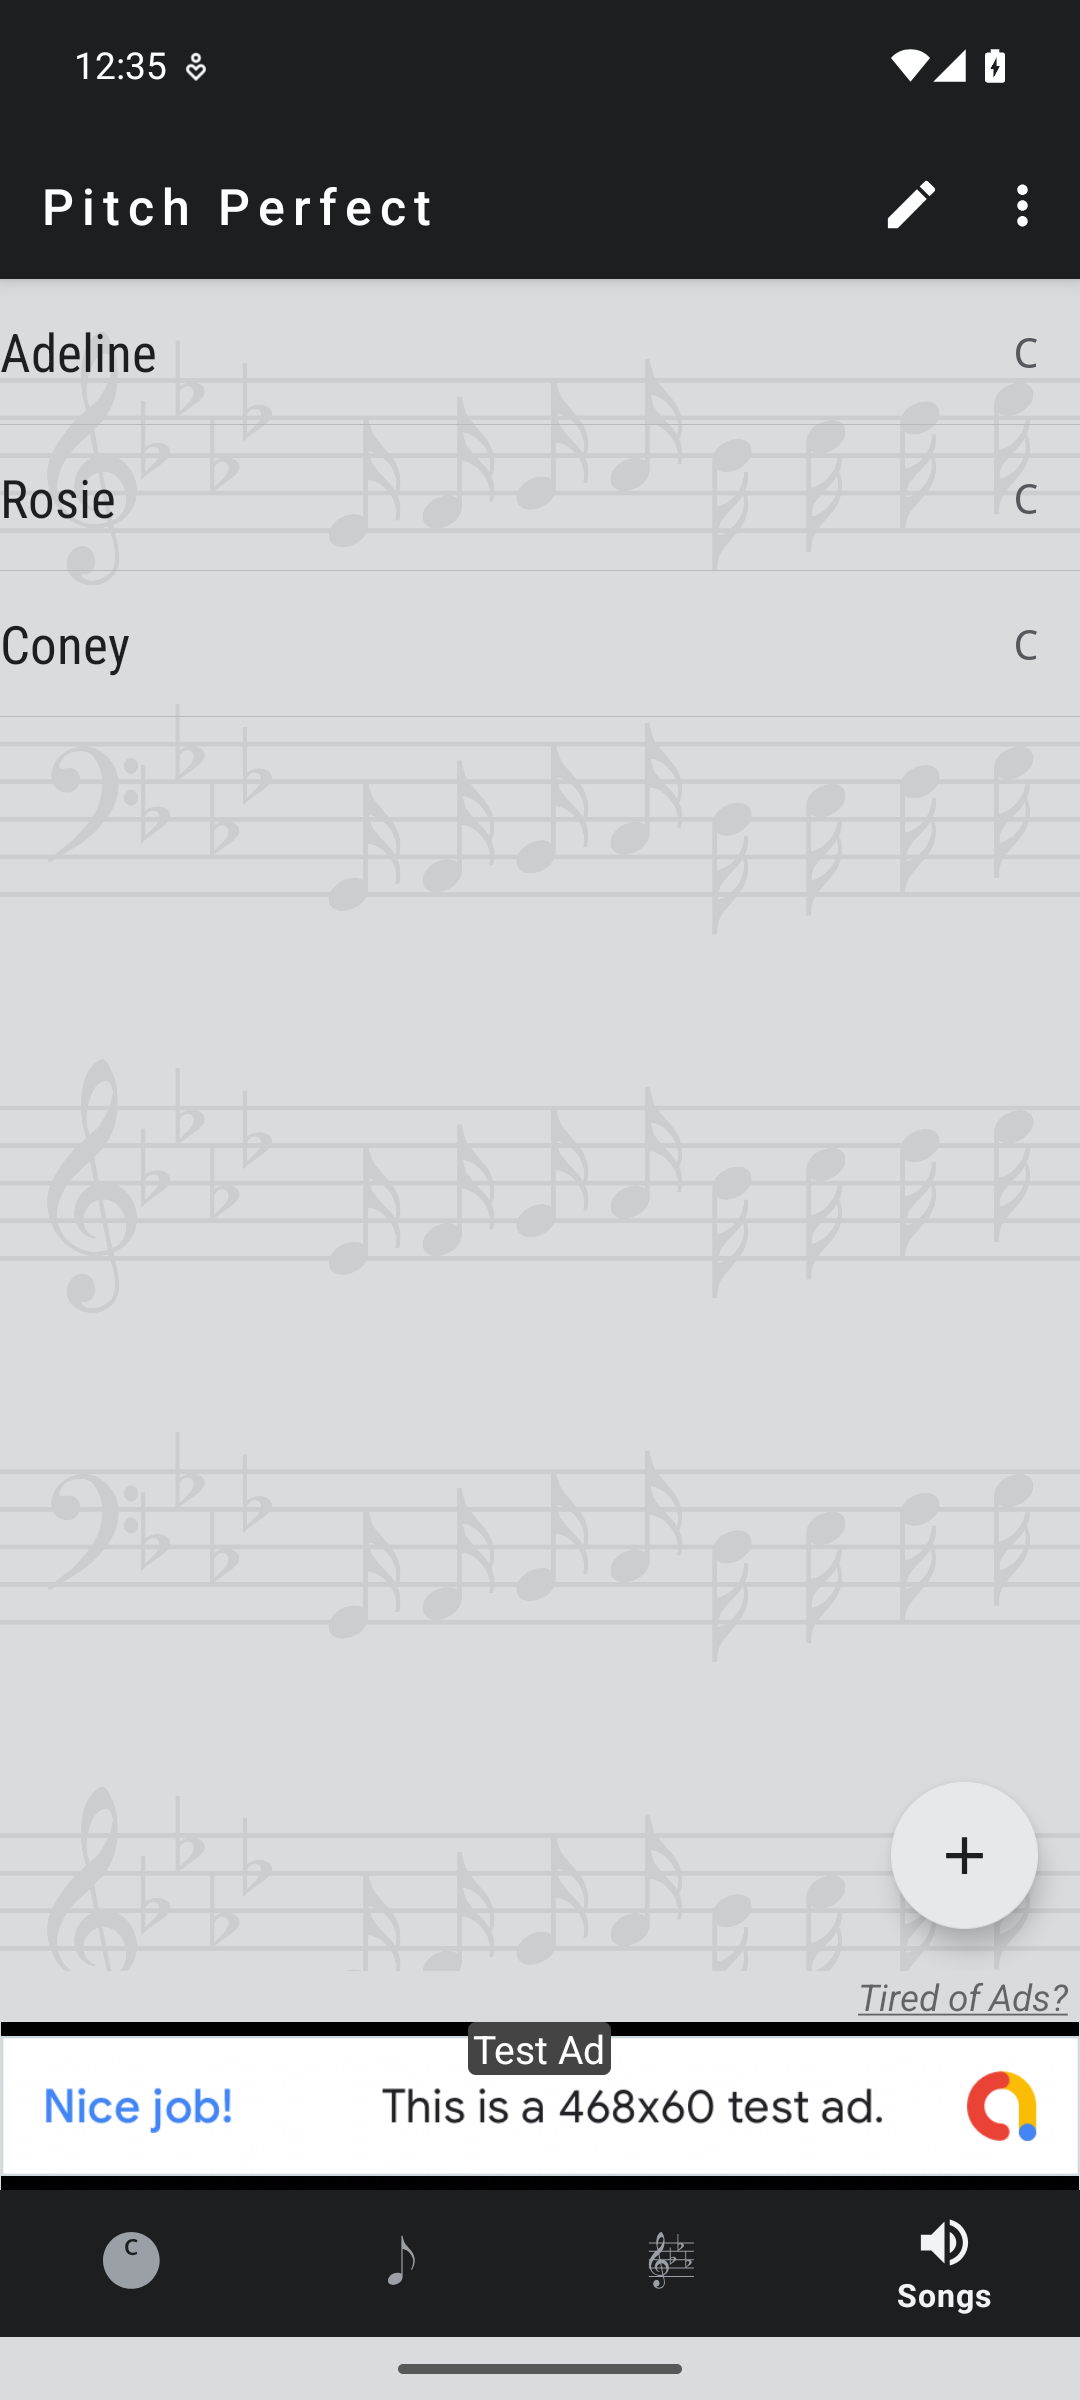
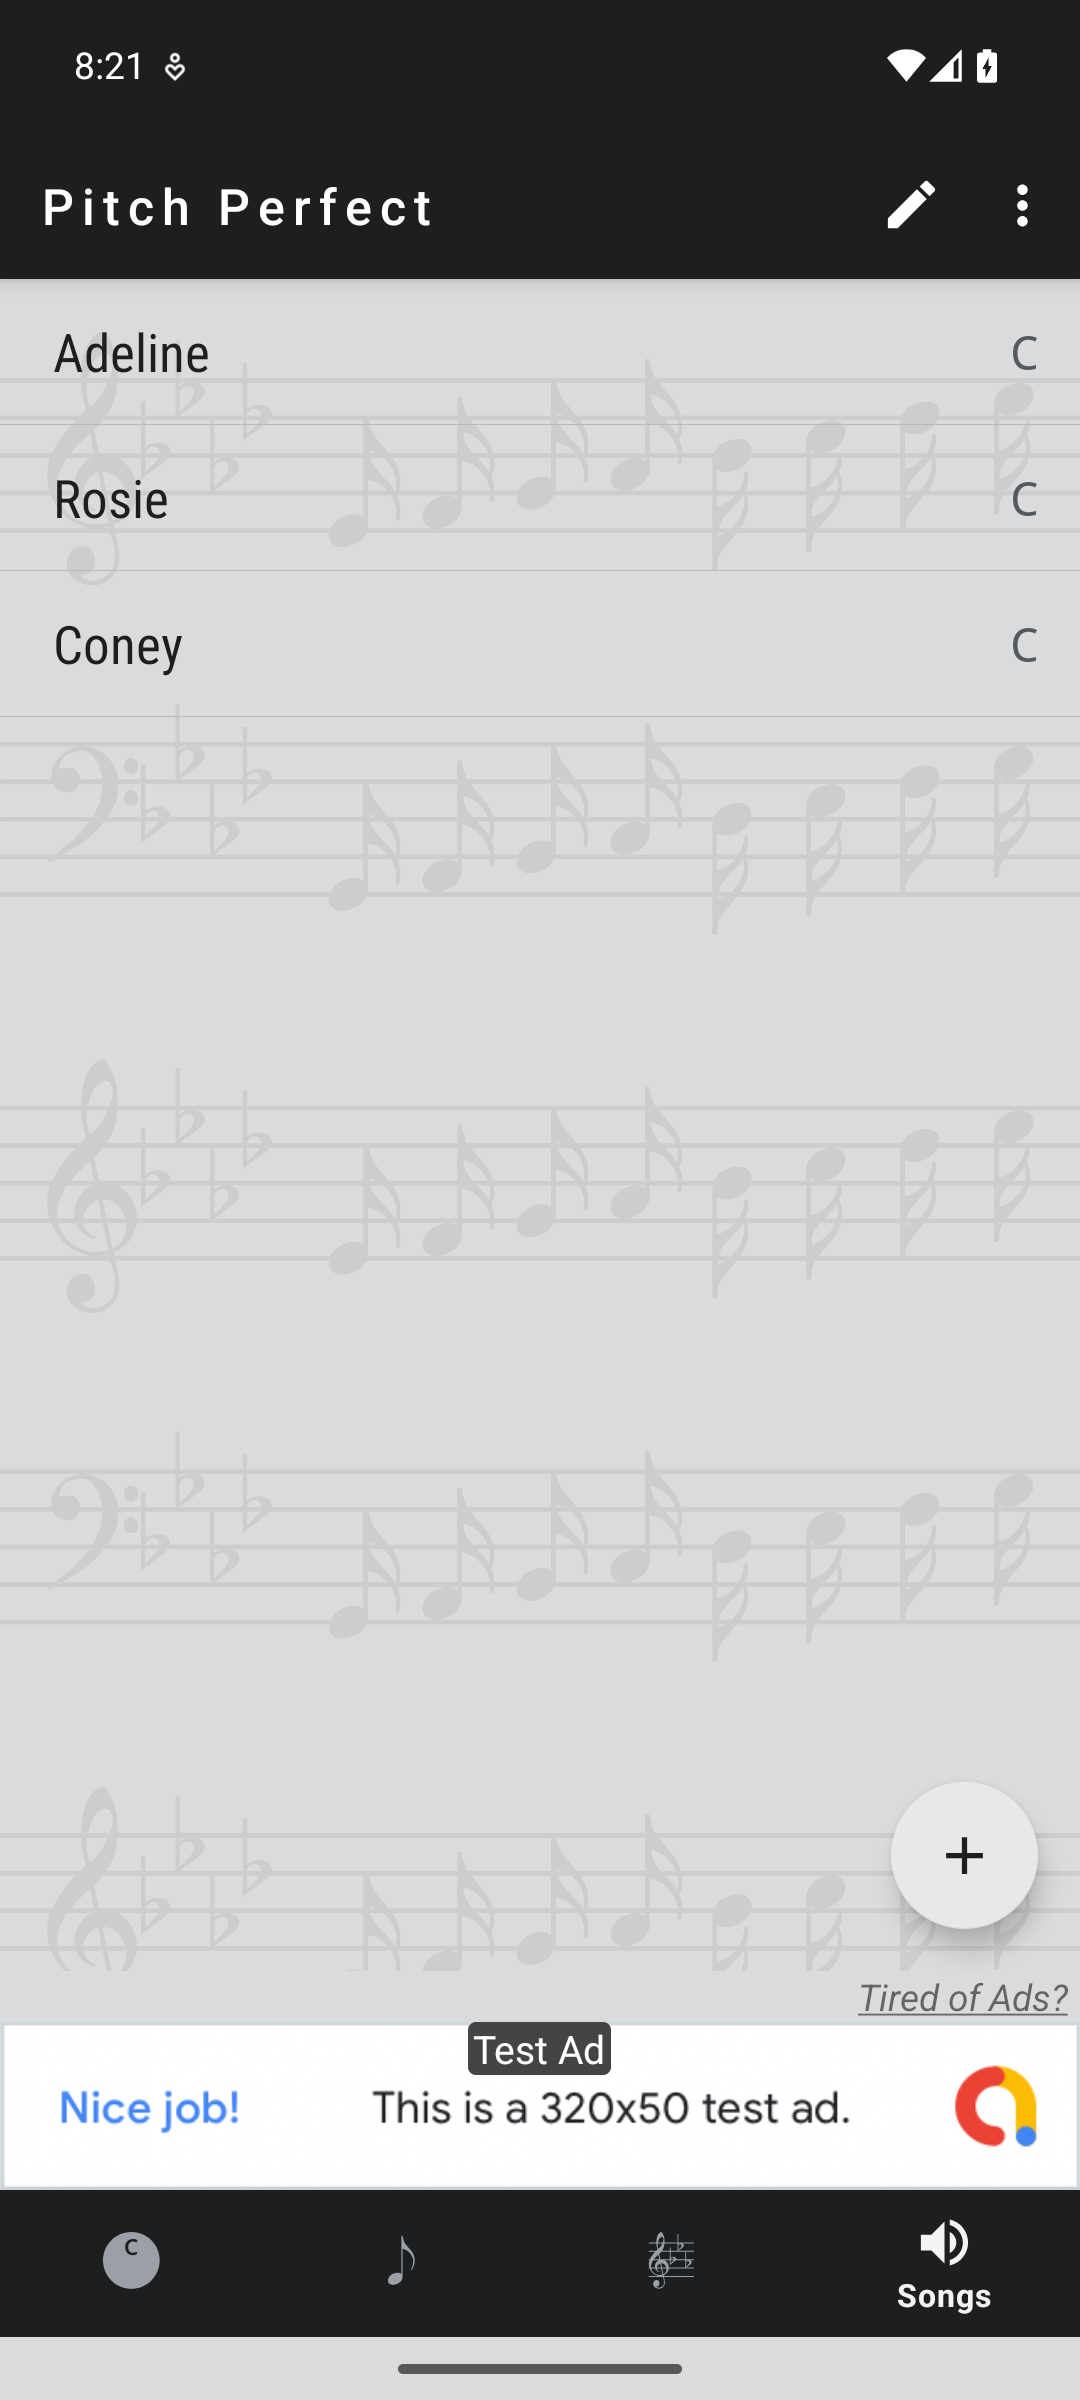
PitchPerfect: refine song rows and instrument caption

diff --git a/iOS/pitchperfect/pitchperfect/DPPitchInstrumentView.swift b/iOS/pitchperfect/pitchperfect/DPPitchInstrumentView.swift
@@ -205,7 +205,7 @@ private class InstrumentAccessibilityElement: UIAccessibilityElement {
 
         // Nameplate.
         let nameplate = NSAttributedString(
-            string: "CHROMATIC PITCH REFERENCE",
+            string: "DIGITAL PITCH PIPE",
             attributes: [
                 .font: condensedFont(size: ringRadius * 0.08),
                 .foregroundColor: inkSecondary.withAlphaComponent(0.65),

diff --git a/Android/PitchPerfect/src/main/java/depollsoft/pitchperfect/PitchInstrumentView.kt b/Android/PitchPerfect/src/main/java/depollsoft/pitchperfect/PitchInstrumentView.kt
@@ -429,7 +429,7 @@ class PitchInstrumentView
             textPaint.textSize = ringRadius * 0.085f
             textPaint.letterSpacing = 0.34f
             canvas.drawText(
-                "CHROMATIC PITCH REFERENCE",
+                "DIGITAL PITCH PIPE",
                 faceCx,
                 height - textPaint.textSize * 1.6f,
                 textPaint,

diff --git a/DESIGN.md b/DESIGN.md
@@ -28,7 +28,7 @@ typography:
     fontSize: "20-24sp"
   mono:
     fontFamily: "monospace (Android) / SF Mono system monospaced (iOS)"
-    fontSize: "14-16sp"
+    fontSize: "14-18sp"
     letterSpacing: "0.04em"
   label:
     fontFamily: "monospace"
@@ -107,9 +107,9 @@ Eight grayscale roles, each with a light (bench-aluminum) and dark (blackened-st
 
 ### Hierarchy
 
-- **Display / engraving** (Oswald Medium): action-bar title (19sp, 0.16 letter-spacing, from `TextAppearance.Plate.ActionBarTitle`); cell engravings and center note readout (sized relative to ring geometry); nameplate caption ("CHROMATIC PITCH REFERENCE", 0.34 tracking, uppercase); range-selector labels (uppercase, 0.16 tracking); empty-state text (15sp, 0.12 tracking).
+- **Display / engraving** (Oswald Medium): action-bar title (19sp, 0.16 letter-spacing, from `TextAppearance.Plate.ActionBarTitle`); cell engravings and center note readout (sized relative to ring geometry); nameplate caption ("DIGITAL PITCH PIPE", 0.34 tracking, uppercase); range-selector labels (uppercase, 0.16 tracking); empty-state text (15sp, 0.12 tracking).
 - **Body** (condensed sans, 20–24sp): list-row primary text — note names, song titles, key signatures.
-- **Mono / data** (monospace, 14–16sp, 0.04–0.06 tracking): frequencies ("261.6 Hz"), song keys, anything measured.
+- **Mono / data** (monospace, 14–18sp, 0.04–0.06 tracking): frequencies ("261.6 Hz"), song keys, anything measured.
 - **Label** (monospace, 12sp, 0.14 tracking, secondary ink): section headers (`TextAppearance.Plate.SectionHeader`).
 - **Musical glyphs**: NoteHedz for note heads/accidentals in lists and buttons; MusiQwik for key-signature notation. These are content glyphs, not UI icons.
 
@@ -151,7 +151,7 @@ Machined-part geometry. Circles for cells and indicator dots; near-square 2dp co
 
 ### List Rows
 
-- 56–64dp fully transparent rows over the full-bleed score (lists themselves carry the score pattern on iOS and sit transparent on Android), with 1px hairline dividers. An empty song list uses the same engraved "NO SONGS ON FILE" prompt on both platforms and points directly to Add. Primary text condensed 20–24sp ink; trailing datum mono 14–16sp secondary. Pressed state = the lit treatment (`row_lit.xml`: background flips to `plate-lit`, text to `plate-on-lit` via `pitch_button_text` / `pitch_row_secondary` selectors) — a row lights the way a cell does.
+- 56–64dp fully transparent rows over the full-bleed score (lists themselves carry the score pattern on iOS and sit transparent on Android), with 1px hairline dividers. An empty song list uses the same engraved "NO SONGS ON FILE" prompt on both platforms and points directly to Add. Primary text condensed 20–24sp ink; trailing datum mono 14–18sp secondary. Android song titles keep a 20dp leading inset and song keys use the 18sp ceiling. Pressed state = the lit treatment (`row_lit.xml`: background flips to `plate-lit`, text to `plate-on-lit` via `pitch_button_text` / `pitch_row_secondary` selectors) — a row lights the way a cell does.
 
 ### Song Editing
 
